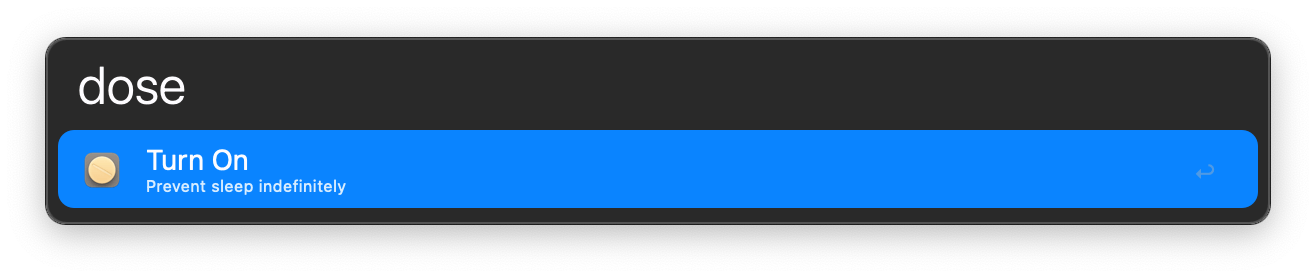
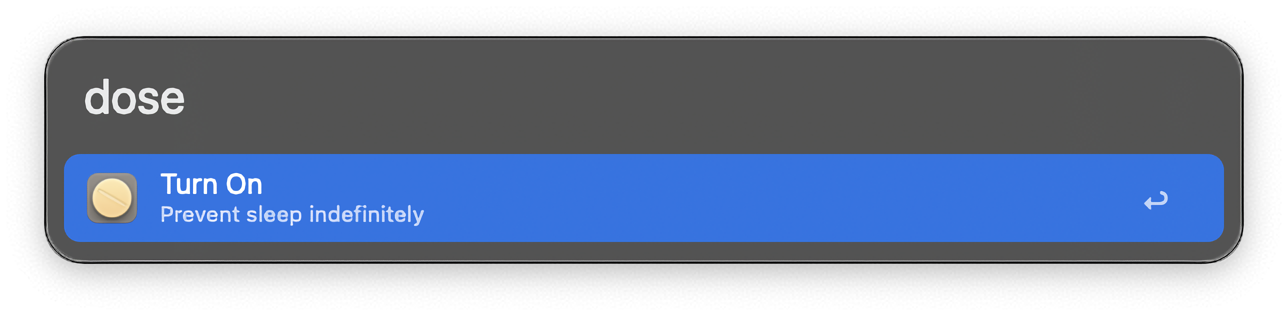
Add new images and update README references for Amphetamine workflow

diff --git a/workflows/vanstrouble/amphetamine-dose/readme.md b/workflows/vanstrouble/amphetamine-dose/readme.md
@@ -9,20 +9,24 @@ Turn Amphetamine on or off via the `dose` keyword.
 
 Set Amphetamine to keep your Mac awake for a specified amount of time or until a certain time via the `ams` keyword.
 
-![Turning on for 30 minutes](images/ams30.png)
+![Turning on for 30 minutes](images/ams-30.png)
 
-![Turning on for 2 hours and 30 minutes](images/ams230.png)
+![Turning on for 2 hours and 30 minutes](images/ams-230.png)
 
-![Turning on for 3 hours](images/ams3h.png)
+![Turning on for 3 hours](images/ams-3h.png)
 
-![Turning on until 8 AM](images/ams8am.png)
+![Turning on until 8 AM](images/ams-8am.png)
 
-![Turning on until 14:30 PM](images/ams1430.png)
+![Turning on until 14:30](images/ams-1430.png)
 
 Give `i` as the argument to keep awake indefinitely.
 
-![Turning on indefinitely](images/amsi.png)
+![Turning on indefinitely](images/ams-i.png)
 
-Give `s` as the argument to check session status
+Give `s` as the argument to check session status.
 
-![Checking status](images/amss.png)
+![Checking status](images/ams-s.png)
+
+Give `d` as the argument to stop the current session.
+
+![Checking status](images/ams-d.png)